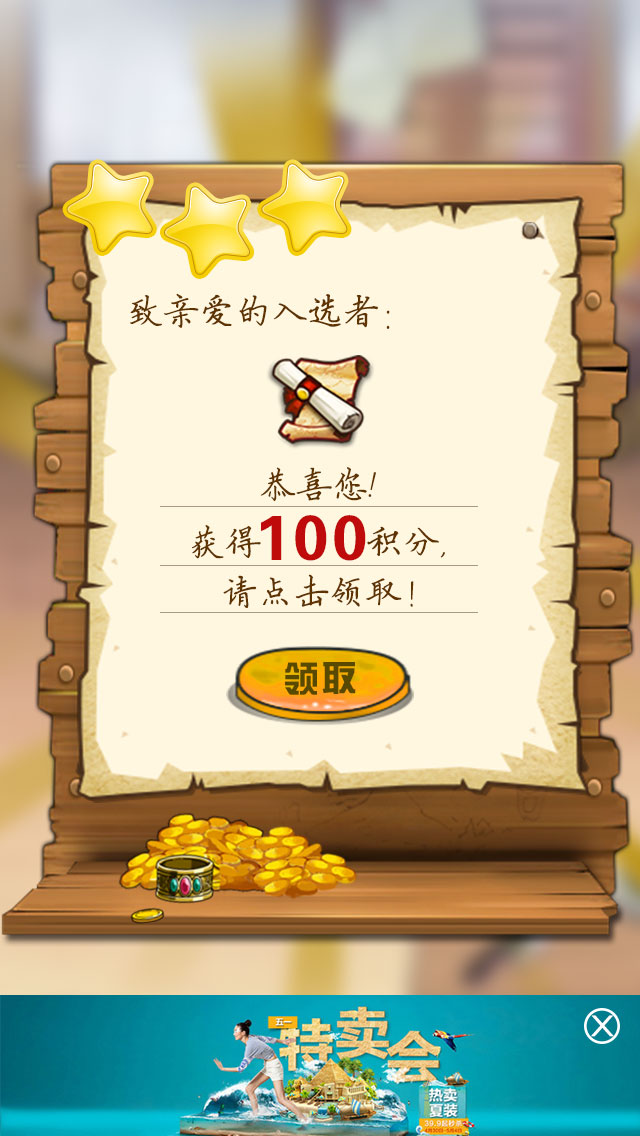
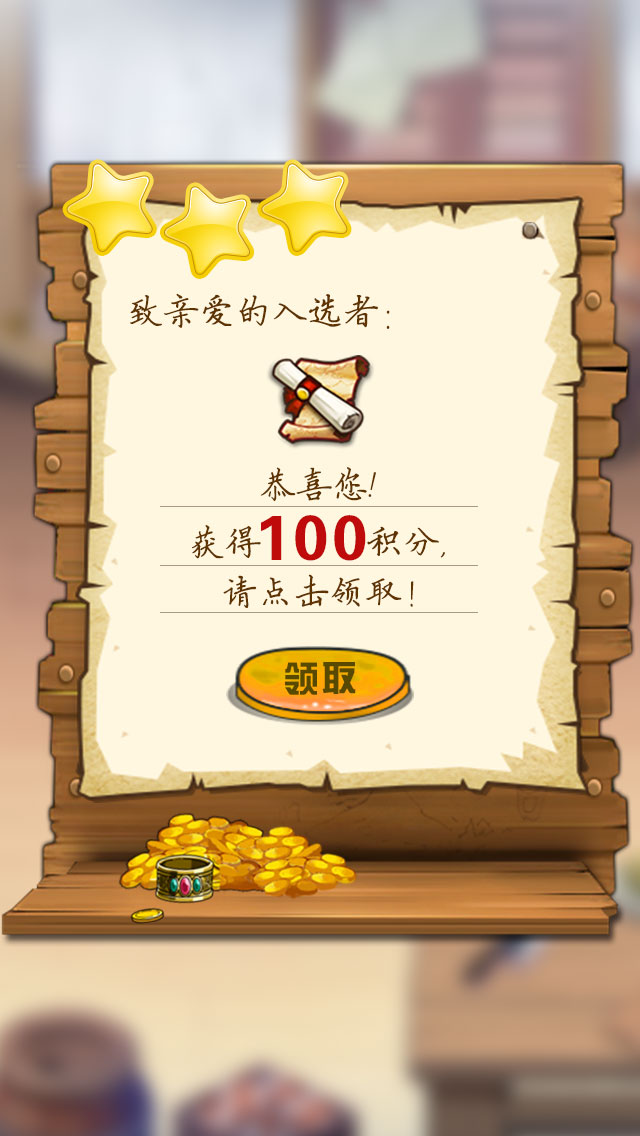
Change Ads

diff --git a/public/mobile/assets/css/index.css b/public/mobile/assets/css/index.css
@@ -40,18 +40,6 @@ html, body {
     background-size: cover;
 }
 
-
-.ad {
-  position: absolute;
-  top: 0;
-  width: 100%;
-  max-width: 540px;
-  height: 157px;
-}
-.ad img {
-  width: 100%;
-}
-
 .code-popup {
   position: relative;
   display: block;
@@ -278,7 +266,7 @@ html, body {
   height: 90px;
   left: 50%;
   margin-left: -117px;
-  top: 50%;
+  top: 44%;
   margin-top: -45px;
   z-index: 110;
 }
@@ -290,11 +278,12 @@ html, body {
 
 .step5 .btn_close {
   position: absolute;
-  width: 38px;
-  height:39px;
-  top: 35%;
-  right: 10%;
+  width: 25px;
+  height:25px;
+  top: 32%;
+  right: 14%;
   background: url("../img/icon_x.png") no-repeat;
+  background-size: contain;
   display: none;
   z-index: 110;
 }
@@ -311,4 +300,14 @@ html, body {
 
 .result_lose {
     background-image: url('../img/lose.jpg');
+}
+
+.ad {
+  position: absolute;
+  width: 96%;
+  height: 100px;
+  margin-left: 2%;
+  bottom: .3%;
+  background: url('../img/ad.png') no-repeat;
+  background-size: contain;
 }

diff --git a/public/mobile/index.html b/public/mobile/index.html
@@ -37,9 +37,11 @@
       <div class="btn_get_point"></div>
       <div class="banner"></div>
       <div class="btn_close"></div>
+      <div class="ad"></div>
     </section>
     <section class="step step6 result_lose">
       <div class="btn_close"></div>
+      <div class="ad"></div>
     </section>
     <section class="mask hide"></section>
     <script src="assets/vendor/zepto.min.js"></script>

diff --git a/public/kiosk/assets/css/index.css b/public/kiosk/assets/css/index.css
@@ -21,7 +21,8 @@ body {
 	width: 100%;
 	height: 280px;
 	bottom: 0;
-	background-image: url('../img/ad.jpg');
+	background: url('../img/ad.png') no-repeat;
+  background-size: cover;
 }
 
 section[class^="step"] {
